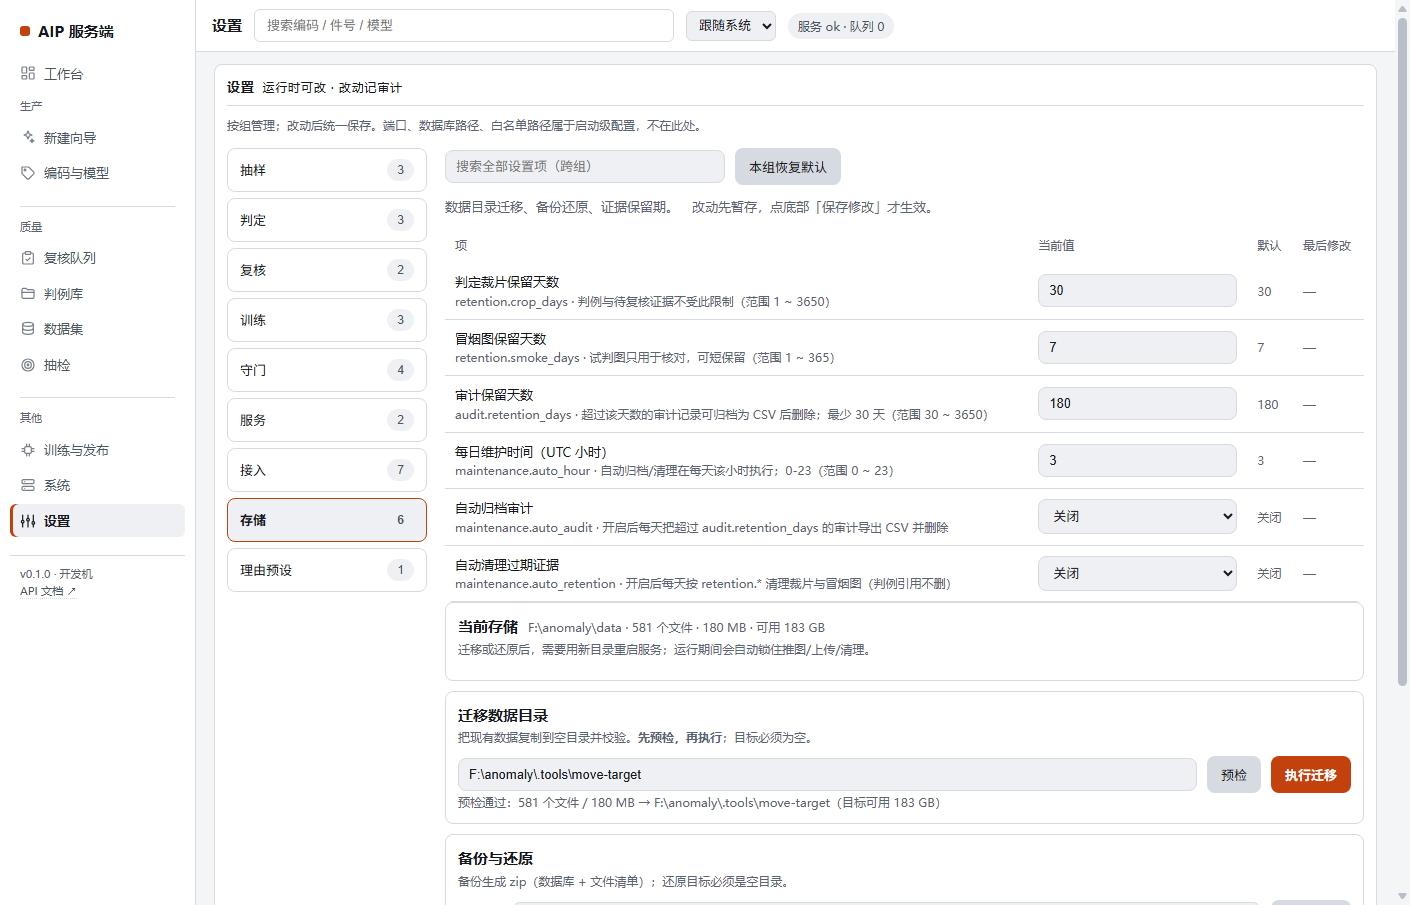
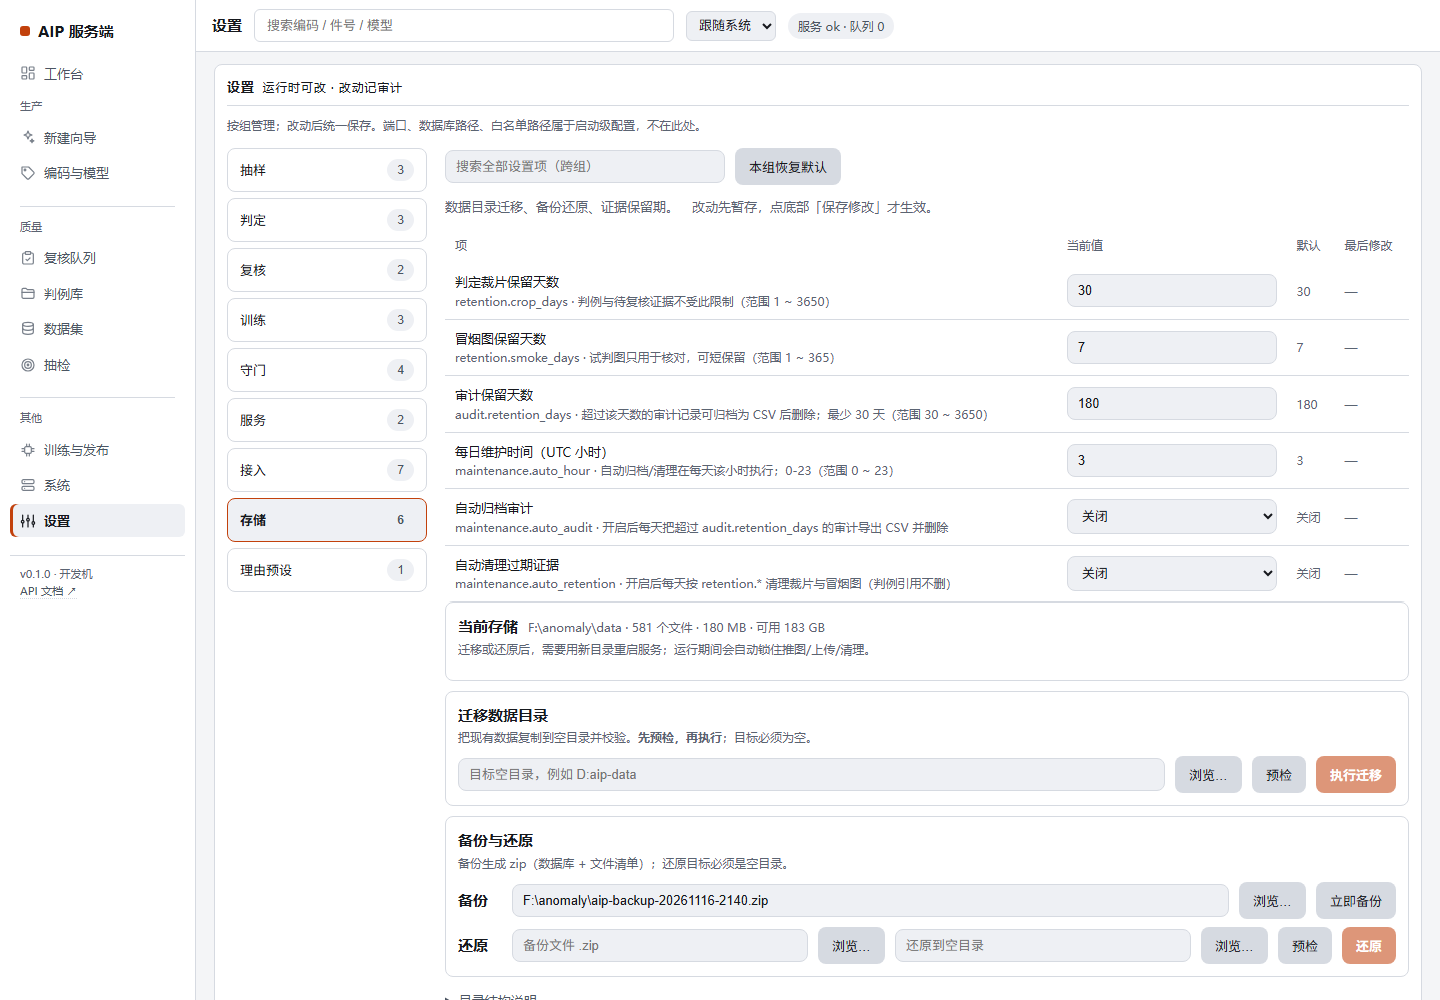
feat: 存储路径增加服务端本机浏览按钮（系统目录/保存/打开对话框）

diff --git a/aip/web/admin.html b/aip/web/admin.html
@@ -1944,6 +1944,7 @@ async function renderSettings() {
         <p class="muted">把现有数据复制到空目录并校验。<b>先预检，再执行</b>；目标必须为空。</p>
         <div class="filterbar" style="margin:0">
           <input id="moveTarget" placeholder="目标空目录，例如 D:\aip-data" style="flex:1;min-width:220px">
+          <button class="ghost" data-pick="dir" data-for="moveTarget" data-title="选择迁移目标目录" title="在服务端本机选择目录">浏览…</button>
           <button class="ghost" id="btnMovePlan">预检</button>
           <button class="act" id="btnMoveApply" disabled>执行迁移</button>
         </div>
@@ -1956,12 +1957,15 @@ async function renderSettings() {
         <div class="filterbar" style="margin:0">
           <b style="min-width:44px">备份</b>
           <input id="backupTarget" placeholder="备份文件路径，例如 D:\aip-backup-20261116.zip" style="flex:1;min-width:220px">
+          <button class="ghost" data-pick="save" data-for="backupTarget" data-title="备份保存到" title="在服务端本机选择保存位置">浏览…</button>
           <button class="ghost" id="btnBackup">立即备份</button>
         </div>
         <div class="filterbar" style="margin:8px 0 0">
           <b style="min-width:44px">还原</b>
           <input id="restoreArchive" placeholder="备份文件 .zip" style="flex:1;min-width:160px">
+          <button class="ghost" data-pick="open" data-for="restoreArchive" data-title="选择备份文件" title="在服务端本机选择备份文件">浏览…</button>
           <input id="restoreTarget" placeholder="还原到空目录" style="flex:1;min-width:160px">
+          <button class="ghost" data-pick="dir" data-for="restoreTarget" data-title="选择还原目标目录" title="在服务端本机选择目录">浏览…</button>
           <button class="ghost" id="btnRestorePlan">预检</button>
           <button class="act" id="btnRestore" disabled>还原</button>
         </div>
@@ -2266,6 +2270,27 @@ async function renderSettings() {
       const backup = document.getElementById("backupTarget");
       if (backup && !backup.value) backup.value = defaultBackupPath(s.root);
     }).catch(() => {});
+
+    document.querySelectorAll("[data-pick]").forEach(btn => {
+      btn.onclick = async () => {
+        const input = document.getElementById(btn.dataset.for);
+        if (!input) return;
+        busy(btn, true);
+        try {
+          const r = await post("/api/system/pick-path", {
+            kind: btn.dataset.pick,
+            title: btn.dataset.title || "选择路径",
+            default: input.value.trim() || null,
+          });
+          input.value = r.path;
+          input.dispatchEvent(new Event("input", {bubbles: true}));
+        } catch (e) {
+          toast(e.message + "（可手动输入）", true);
+        } finally {
+          busy(btn, false);
+        }
+      };
+    });
 
     const busy = (btn, on) => {
       if (!btn) return;

diff --git a/aip/src/aip/api/routes_settings.py b/aip/src/aip/api/routes_settings.py
@@ -87,6 +87,72 @@ def maintenance_retention(body: RetentionIn, conn: sqlite3.Connection = Depends(
     )}
 
 
+class PickPathIn(BaseModel):
+    kind: str = "dir"          # dir | open | save
+    title: str | None = None
+    default: str | None = None
+
+
+@router.post("/system/pick-path")
+def pick_path(body: PickPathIn) -> dict:
+    """在服务端桌面弹出系统选择框，返回本机绝对路径（仅 Windows）。"""
+    import os
+    import subprocess
+    import tempfile
+
+    if os.name != "nt":
+        raise ApiError("picker_unsupported", "当前系统不支持本地路径选择", "手动输入路径", 400)
+    kind = body.kind if body.kind in ("dir", "open", "save") else "dir"
+    out_file = Path(tempfile.mkstemp(suffix=".txt")[1])
+    script = r"""
+Add-Type -AssemblyName System.Windows.Forms
+[Console]::OutputEncoding = [System.Text.Encoding]::UTF8
+$kind = $env:AIP_PICK_KIND
+$title = $env:AIP_PICK_TITLE
+$default = $env:AIP_PICK_DEFAULT
+$out = $env:AIP_PICK_OUT
+$path = ""
+if ($kind -eq "dir") {
+  $d = New-Object System.Windows.Forms.FolderBrowserDialog
+  if ($title) { $d.Description = $title }
+  if ($default -and (Test-Path -LiteralPath $default)) { $d.SelectedPath = $default }
+  if ($d.ShowDialog() -eq [System.Windows.Forms.DialogResult]::OK) { $path = $d.SelectedPath }
+} elseif ($kind -eq "open") {
+  $f = New-Object System.Windows.Forms.OpenFileDialog
+  if ($title) { $f.Title = $title }
+  $f.Filter = "备份/文件 (*.zip;*.csv)|*.zip;*.csv|所有文件 (*.*)|*.*"
+  if ($f.ShowDialog() -eq [System.Windows.Forms.DialogResult]::OK) { $path = $f.FileName }
+} else {
+  $f = New-Object System.Windows.Forms.SaveFileDialog
+  if ($title) { $f.Title = $title }
+  $f.Filter = "Zip (*.zip)|*.zip"
+  if ($default) { $f.FileName = $default }
+  if ($f.ShowDialog() -eq [System.Windows.Forms.DialogResult]::OK) { $path = $f.FileName }
+}
+[System.IO.File]::WriteAllText($out, $path, [System.Text.Encoding]::UTF8)
+"""
+    env = dict(os.environ)
+    env.update({
+        "AIP_PICK_KIND": kind,
+        "AIP_PICK_TITLE": body.title or "选择路径",
+        "AIP_PICK_DEFAULT": body.default or "",
+        "AIP_PICK_OUT": str(out_file),
+    })
+    try:
+        subprocess.run(
+            ["powershell", "-NoProfile", "-STA", "-Command", script],
+            env=env, capture_output=True, timeout=180, check=False,
+        )
+        picked = out_file.read_text(encoding="utf-8").strip() if out_file.exists() else ""
+    except subprocess.TimeoutExpired as exc:
+        raise ApiError("picker_timeout", "选择框超时未操作", "可手动输入路径", 408) from exc
+    finally:
+        out_file.unlink(missing_ok=True)
+    if not picked:
+        raise ApiError("picker_cancelled", "没有选择路径", "可手动输入路径", 400)
+    return {"path": picked}
+
+
 class MoveIn(BaseModel):
     model_config = ConfigDict(json_schema_extra={"examples": [{"target": "D:\\aip-data", "dry_run": True}]})
 
